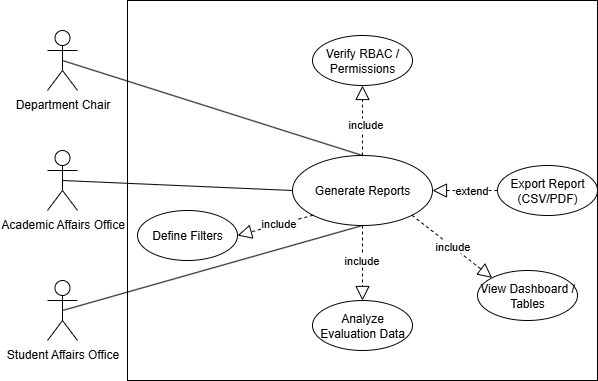
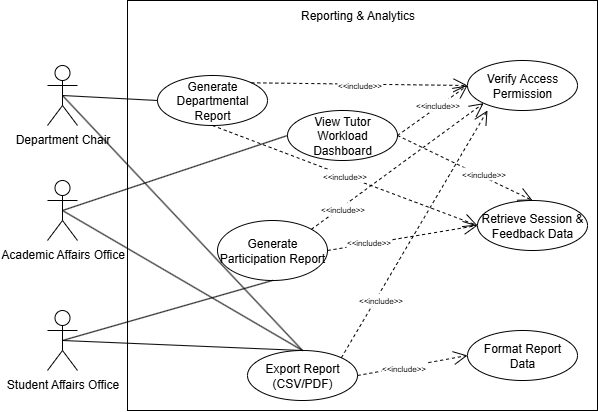
Fix  UC-05.png, /usecase-general.png, /usecase/uc05.tex

diff --git a/sections/usecase/uc05.tex b/sections/usecase/uc05.tex
@@ -1,50 +1,130 @@
-
-
 \begin{center}
 \includegraphics[width=0.9\linewidth]{images/UC-05.png}
 \end{center}
 
 \begin{center}
-\textbf{Figure 6:}  Reporting \& Analytics
+\textbf{Figure 6:}  Reporting and Analytics
 \end{center}
+
 
 \begin{table}[h!]
 \centering
 \begin{tabular}{|p{3cm}|p{11cm}|}
 \hline
-\textbf{Use-case ID} & UC-05 \\
+\textbf{Use-case ID} & UC-05a \\
 \hline
-\textbf{Use-case name} & Reporting \& Analytics \\
+\textbf{Use-case name} & Generate Departmental Report \\
 \hline
-\textbf{Use-case overview} & To allow academic units to view, analyze, and export reports (attendance, performance, tutor workload, student demand, participation) for monitoring and decision-making. \\
+\textbf{Use-case overview} & Department Chair generates a department-level report (attendance, performance, session counts) for academic monitoring and decisions. \\
 \hline
-\textbf{Actors} & Department Chair (primary), Academic Affairs Office (primary), Student Affairs Office (primary) \\
+\textbf{Actors} & Department Chair \\
 \hline
 \textbf{Preconditions} & 
-1. The user is authenticated via SSO and authorized to view reports. \newline
-2. Session, feedback, and progress data exist. \newline
-3. The system is operational. \\
+1. Authenticated and authorized to view departmental reports. \newline
+2. Sessions, feedback, and (if applicable) progress data exist. \newline
+3. System is operational. \\
 \hline
-\textbf{Trigger} & Users open the ``Reporting'' module. \\
+\textbf{Trigger} & Chair opens ``Reporting'' and selects ``Departmental Report''. \\
 \hline
 \textbf{Steps} & 
-1. Retrieve the Reporting page. \newline
-2. Select a report type (Departmental / Workload \& Demand / Participation). \newline
-3. Set filters (term/date range, department/program, tutor, cohort). \newline
-4. Retrieve relevant data and analyze metrics (attendance, performance ratings, tutor workload, student demand, participation). \newline
-5. Display dashboards/tables with results and data-source notes. \newline
-6. Optional: export the report as CSV or PDF; add metadata (generation time, filters, version) and record the action in the audit log. \\
+1. Set filters (term/date, program/department, tutor/cohort). \newline
+2. System retrieves and analyzes metrics (attendance, performance, session counts). \newline
+3. System displays tables/charts with data-source notes. \newline
+4. Optional: Export CSV/PDF with metadata (generation time, filters, version); log action. \\
 \hline
 \textbf{Postconditions} & 
-1. The report is displayed with analyzed metrics. \newline
-2. If exported, a CSV/PDF file is produced with metadata. \newline
-3. Access/export actions are logged. \\
+1. Departmental report displayed; optional file generated. \newline
+2. Action recorded in the audit log. \\
+\hline
+\textbf{Alternative Flows} & 
+1. Change filters/scope $\rightarrow$ system refreshes results. \\
 \hline
 \textbf{Exception Flow} & 
-1. Access denied: insufficient permissions → show denial message and log the attempt. \newline
-2. Invalid/empty filters → show ``No data'' and allow the actor to adjust filters. \newline
-3. Export error: I/O or file-size issue → show an error and suggest retrying or narrowing scope. \\
+1. No data for selected criteria $\rightarrow$ show ``No data available for this selection.'' \newline
+2. Export error (I/O or size) $\rightarrow$ suggest narrowing scope or retrying. \newline
+3. Data source unavailable $\rightarrow$ show service notice; allow retry when available. \\
 \hline
 \end{tabular}
-\caption{Use Case UC-05: Reporting \& Analytics}
+\caption{Use Case UC-05a: Generate Departmental Report}
+\end{table}
+
+\begin{table}[h!]
+\centering
+\begin{tabular}{|p{3cm}|p{11cm}|}
+\hline
+\textbf{Use-case ID} & UC-05b \\
+\hline
+\textbf{Use-case name} & View Tutor Workload Dashboard \\
+\hline
+\textbf{Use-case overview} & Academic Affairs views tutor workload and student demand to allocate resources effectively. \\
+\hline
+\textbf{Actors} & Academic Affairs Office \\
+\hline
+\textbf{Preconditions} & 
+1. Authenticated and authorized for workload dashboards. \newline
+2. Sessions/booking and feedback data exist. \newline
+3. System is operational. \\
+\hline
+\textbf{Trigger} & Office opens ``Workload \& Demand'' dashboard. \\
+\hline
+\textbf{Steps} & 
+1. Select filters (term/date, department/program). \newline
+2. System aggregates tutor load and demand indicators. \newline
+3. System displays dashboard (tables/charts, drill-down). \newline
+4. Optional: Export CSV/PDF with metadata; log action. \\
+\hline
+\textbf{Postconditions} & 
+1. Workload dashboard visible; optional export ready. \newline
+2. Access recorded in the audit log. \\
+\hline
+\textbf{Alternative Flows} & 
+1. Drill-down by tutor/program $\rightarrow$ refresh view. \\
+\hline
+\textbf{Exception Flow} & 
+1. No data for selected criteria $\rightarrow$ show ``No data available for this selection.'' \newline
+2. Export error (I/O or size) $\rightarrow$ suggest narrowing scope or retrying. \newline
+3. Data source unavailable $\rightarrow$ show service notice; allow retry when available. \\
+\hline
+\end{tabular}
+\caption{Use Case UC-05b: View Tutor Workload Dashboard}
+\end{table}
+
+\begin{table}[h!]
+\centering
+\begin{tabular}{|p{3cm}|p{11cm}|}
+\hline
+\textbf{Use-case ID} & UC-05c \\
+\hline
+\textbf{Use-case name} & Generate Participation Report \\
+\hline
+\textbf{Use-case overview} & Student Affairs generates participation reports for credit/scholarship consideration. \\
+\hline
+\textbf{Actors} & Student Affairs Office \\
+\hline
+\textbf{Preconditions} & 
+1. Authenticated and authorized for participation reports. \newline
+2. Sessions and attendance/feedback records exist. \newline
+3. System is operational. \\
+\hline
+\textbf{Trigger} & Office selects ``Participation Report''. \\
+\hline
+\textbf{Steps} & 
+1. Choose filters (term/date, cohort, program, thresholds). \newline
+2. System compiles participation metrics and eligibility indicators. \newline
+3. System displays results; Optional: export CSV/PDF with metadata; log action. \\
+\hline
+\textbf{Postconditions} & 
+1. Participation report displayed; optional file generated. \newline
+2. Action logged. \\
+\hline
+\textbf{Alternative Flows} & 
+1. Adjust filters/criteria $\rightarrow$ refresh results. \\
+\hline
+\textbf{Exception Flow} & 
+1. No data for selected criteria $\rightarrow$ show ``No data available for this selection.'' \newline
+2. Export error (I/O or size) $\rightarrow$ suggest narrowing scope or retrying. \newline
+3. Data source unavailable $\rightarrow$ show service notice; allow retry when available. \\
+\hline
+\end{tabular}
+\caption{Use Case UC-05c: Generate Participation Report}
 \end{table}
